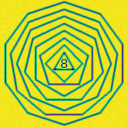
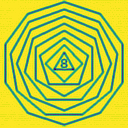
Trabalho04 - Restauração de Imagens (conluido)

diff --git a/Graduação/ProcImage/Trabalho04/main.py b/Graduação/ProcImage/Trabalho04/main.py
@@ -7,130 +7,163 @@ import matplotlib.pyplot as plt
 import numpy as np
 import sys
 
-def filter_adapt(img_deg):
+#Filtro Adaptativo de Remocação de Ruido
+#Paramteros: imagem degradada, fator limitante gama. coordenadas de um sub-regiao da imagem
+#tamanho do filtro e mode = {average, robust}
+def filter_adapt(img_deg, gama):
     #paramteros do filtro
-    gama = float(input())
     i1,i2,j1,j2 =  map(int, input().split())
     tam_filt = int(input())
-    mode = input()
-
-    img_deg_pad = np.pad(img_deg, ((k,k), (k,k)), 'symmetric')
-    h,w = img_deg_pad.shape
-    k = tam_filt//2 
-    reg_disp = img_deg_pad[i1+k:i2+k, j1+k:j2+k].flatten()
+    mode = sys.stdin.readline().strip()
     
+    k = tam_filt//2
+    img_deg_pad = np.pad(img_deg, ((k,k), (k,k)), 'symmetric') #app do padding 
+    h,w = img_deg_pad.shape
+    
+    #selecionando a sub-região da imagem
+    reg_disp = img_deg_pad[i1+k:i2+k, j1+k:j2+k].flatten()
+
+    #calculo da dispersao de ruido estimada através do desvio padrão da sub-regiao
     dispN = np.std(reg_disp)
     if dispN == 0 :
         dispN =1
     
+    
     F = np.zeros_like(img_deg_pad)
     vizin  = []
+    #Modo = Average
+    #Utiliza a media aritmetica como medida de  dispersao local e o desvio padrao da vizinhaça nxn como medida de centralidade local
     if mode == "average":
         for i in range(k, h-k):
             for j in range(k, w-k):
-                #print(k, i-k,j-k, i+k,j+k)
+                
                 vizin = img_deg_pad[i-k:i+k+1, j-k:j+k+1]
                 dispL = np.std(vizin) 
                 if dispL == 0:
                     dispL =  dispN
                 centL = np.mean(vizin)
-                F[i,j] = (img_deg_pad[i,j] - gama * dispN/dispL * (img_deg_pad[i,j] - centL))
-
+                F[i,j] = (img_deg_pad[i,j] - gama * dispN/dispL * (img_deg_pad[i,j] - centL)) #calculo  e aplicacao do filtro
+    #Modo = Average
+    #Utiliza a mediana como medida de  centralidade local e o intervalo quartil da vizinhaça nxn como medida de dispersao local
     elif mode == "robust":
          for i in range(k, h-k):
             for j in range(k, w-k):
                 vizin = img_deg_pad[i-k:i+k+1, j-k:j+k+1]
-
                 centL = np.median(vizin)
                 Q1 = np.percentile(vizin, 25)
                 Q3 = np.percentile(vizin, 75)
                 dispL = Q3 - Q1 
                 if dispL == 0:
                     dispL = dispN
-                
-                F[i,j] = img_deg_pad[i,j] - gama * dispN/dispL * (img_deg_pad[i,j] - centL)
+                F[i,j] = (img_deg_pad[i,j] - gama * dispN/dispL * (img_deg_pad[i,j] - centL)) #calculo e aplicação do filtro
         
     else:
         print("Valor incorreto!")
         return 0
     
+    #retirando o padding da imagem
     F = F[k:h-k, k:w-k]
 
     return F
-
+#Filtro de ruído 
 def gaussian_filter(k=3, sigma=1.0):
-    arx = np.aragne((-k//2) + 1.0, (k//2) + 1.0)
+    arx = np.arange((-k//2) + 1.0, (k//2) + 1.0)
     x,y = np.meshgrid(arx, arx)
-    filt  =np.exp(-(1/2) * np.square(x) + np.square(y) / np.square(sigma))
+    filt = np.exp(-(1/2) * (np.square(x) + np.square(y)) / np.square(sigma))
 
-    return filt/np.sum(filt)
+    return np.array(filt/np.sum(filt))
 
-#def min_quad_rest(img_deg, img_H):
+#Filtro Laplaciano
+def operador_laplaciano():
+    return np.array([[0,-1,  0],
+                     [-1, 4, -1],
+                     [0, -1, 0]])
+#Filtro de Minimos Quadrados Restritos
+def filter_min_quad_rest(sigma, tam_f, img_deg, gama):
+    #criando os filtros de degradação(gaussiano) e limitante(laplace)
+    laplace = operador_laplaciano()
+    filt_deg = gaussian_filter(k = tam_f, sigma=sigma) 
+    
+    #realizando o padding nos filtros
+    a = int(img_deg.shape[0] // 2 - filt_deg.shape[0] // 2)
+    c = int(img_deg.shape[0] // 2 - laplace.shape[0] // 2)
+
+    filt_h_pad = np.pad(filt_deg, ((a, a - 1), (a, a - 1)), 'constant', constant_values=(0))
+    laplace_pad = np.pad(laplace, ((c, c - 1), (c, c - 1)), 'constant', constant_values=(0))
+    
+    #aplicando a tf na imagem e filtros
+    img_deg_ft = np.fft.fft2(img_deg)
+    filt_h = np.fft.fft2(filt_h_pad)
+    filt_h_conj = np.conjugate(filt_h)
+    op_laplace = np.fft.fft2(laplace_pad)
+
+    #realizando a filtragem do dominio da frequencia ( produto na frequencia)
+    result = (filt_h_conj / (np.abs(filt_h) ** 2 + gama *( np.abs(op_laplace) ** 2))) * img_deg_ft
+
+    #aplicando a tf inversa e voltando pro dominio real
+    img_result = np.fft.ifft2(result)
+    img_result = np.fft.ifftshift(img_result)
+    img_result = np.real(img_result)
+
+    return img_result
 
 def app_filter(img_g):
-    param =  int(input())
-    if param == 1: #aplica o remoção por filtros adaptativos
-        img_filt= filter_adapt(img_g)
+    #Parametros-> Id: identificador do tipo de filtro e  fator gama
+    id =  int(input())
+    gama = float(input())
+    if id == 1: #aplica o remoção por filtros adaptativos
+        img_filt= filter_adapt(img_g, gama)
+
+    elif id == 2: #aplica o filtro de minimos quadrados restirtos para restauração das imagens
+        tam_f = int(input())
+        sigm =  float(input())
+        img_filt = filter_min_quad_rest(sigm, tam_f, img_g, gama)
     return img_filt
-def normalizacao(img):
-    img = (img - img.min())*255/(img.max() - img.min())
-    return img.astype(np.uint8)
+
 #Computa a diferença entre duas imagens
-def comp_ref(img, name_h):
-    H = iio.imread(name_h)
+def comp_ref(img, H):
     rse = np.sqrt(np.mean(np.power(img.astype(np.int32) - H.astype(np.int32), 2)))
     print("{:.4f}".format(rse))
 
+#Aplicando a liminacia para deixar a imagem colorida em tons de cinza
 def luminance ( l ) :
     if len( l.shape ) > 2:
        l = 0.2126*l[:,:,0] + 0.7152 * l[:,:,1] + 0.0722 * l[:,:,2]
        l = l.astype(np.uint8) 
     return l
+
+def visualiza_img(img, titulo):
+    plt.imshow(img, cmap="gray")
+    plt.title(titulo)
+    plt.show()
+
 def main():
+    #nome dos arquivos que serão utilizados
     name_f = sys.stdin.readline().strip()
     name_in = sys.stdin.readline().strip()
     
-    
-    #definindo img
+    #Criando os objs de imagens e aplicando a luminancia para imagens coloridas
     img_deg = iio.imread(name_in)
     if len( img_deg.shape ) > 2:
         img_deg = luminance(img_deg)
     img_h =  iio.imread(name_f)
     
-    plt.imshow(img_deg, cmap="gray")
-    plt.title("Imagem original")
-    plt.show()
+    #aplicando os filtros 
     img_filter = app_filter(img_deg)
-    plt.imsave("imgout.png", img_filter)
-    #img_filter = normalizacao(img_filter)
-    plt.imshow(img_filter, cmap="gray")
-    plt.title("Imagem original")
-    plt.show()
-    comp_ref(img_filter, name_f)
+    #clippando as imagens pois pode ocorrer valores que ultrapassem os limites [0,55]
+    img_filter_clip = np.clip(img_filter, 0, 255)
+
+    #computando as diferenças entre as imagens filtradas e as imagens "perfeitas"
+    comp_ref(img_filter_clip, img_h)
+
+    #salvando o resultado obtido com a filtragem de ruido
+    plt.imsave("imgout.png", img_filter_clip)
     
-    '''
-    plt.imshow(img_in, cmap="gray")
-    plt.title("Imagem original")
-    plt.show()
+    #visualizando os resultados
+    visualiza_img(img_deg, "Imagem degrada por ruídos")
+    visualiza_img(img_filter, "Imagem Filtrada")
+    visualiza_img(img_filter_clip, "Imagem com limites definidos")
 
-    plt.figure(figsize=(10,5))
-
-    # Imagem original (esquerda)
-    plt.subplot(1, 2, 1)  # 1 linha, 2 colunas, posição 1
-    plt.imshow(img_h, cmap="gray")
-    plt.title("Imagem Original")
-    plt.axis('off')
-
-    # Imagem filtrada (direita)
-    plt.subplot(1, 2, 2)  # 1 linha, 2 colunas, posição 2
-    plt.imshow(img_filter, cmap="gray")
-    plt.title("Imagem Filtrada")
-    plt.axis('off')
-
-    plt.tight_layout()  # evita sobreposição de títulos
-    plt.show()
-    
-    '''
     return 0
 
 if __name__ == "__main__":

diff --git a/Graduação/ProcImage/Trabalho04/teste.py b/Graduação/ProcImage/Trabalho04/teste.py
@@ -1,0 +1,84 @@
+import numpy as np
+from scipy.ndimage import gaussian_filter
+import matplotlib.pyplot as plt  # For visualization (optional)
+
+def operador_laplaciano():
+    """Retorna um operador Laplaciano simples 3x3."""
+    return np.array([[0, -1, 0],
+                     [-1, 4, -1],
+                     [0, -1, 0]])
+
+def filter_min_quad_rest(sigma, tam_f, img_deg, gama):
+    """
+    Aplica o filtro de mínimos quadrados restritos para restaurar uma imagem degradada.
+
+    Args:
+        sigma (float): Desvio padrão do filtro gaussiano.
+        tam_f (int): Tamanho do filtro gaussiano (neste caso, do kernel).
+        img_deg (np.ndarray): Imagem degradada.
+        gama (float): Parâmetro de regularização.
+
+    Returns:
+        np.ndarray: Imagem restaurada.
+    """
+
+    # 1. Gerar os filtros
+    laplace = operador_laplaciano()
+    #filt_deg = gaussian_filter(img_deg, sigma=sigma) # gaussian_filter already applies the filter
+    filt_deg = np.ones((tam_f, tam_f)) # Create a simple kernel for demonstration
+
+    # 2. Calcular o padding
+    a = img_deg.shape[0] // 2 - filt_deg.shape[0] // 2
+    c = img_deg.shape[0] // 2 - laplace.shape[0] // 2
+
+    # 3. Aplicar o padding (ANTES da FFT)
+    filt_h_pad = np.pad(filt_deg, ((a, a - 1), (a, a - 1)), 'constant', constant_values=(0))
+    laplace_pad = np.pad(laplace, ((c, c - 1), (c, c - 1)), 'constant', constant_values=(0))
+
+    # 4. Aplicar a Transformada de Fourier (FFT)
+    img_deg_ft = np.fft.fft2(img_deg)
+    filt_h = np.fft.fft2(filt_h_pad)
+    filt_h_conj = np.conjugate(filt_h)
+    op_laplace = np.fft.fft2(laplace_pad)
+
+    # Visualização dos filtros (opcional)
+    # plt.imshow(np.log(np.abs(filt_h) + 1e-8), cmap='gray')
+    # plt.title("Filtro Gaussiano (padded) no domínio da frequência")
+    # plt.show()
+    # plt.imshow(np.log(np.abs(op_laplace) + 1e-8), cmap='gray')
+    # plt.title("Filtro Laplaciano (padded) no domínio da frequência")
+    # plt.show()
+
+    # 5. Realizar a filtragem no domínio da frequência
+    result = (filt_h_conj / (np.abs(filt_h) ** 2 + gama * np.abs(op_laplace) ** 2 + 1e-8)) * img_deg_ft
+
+    # 6. Aplicar a Transformada Inversa de Fourier (IFFT)
+    img_result = np.fft.ifft2(result)
+    img_result = np.real(img_result)
+
+    return img_result
+
+
+if __name__ == '__main__':
+    # Criar uma imagem de exemplo (256x256)
+    img_exemplo = np.zeros((256, 256))
+    img_exemplo[100:150, 100:150] = 255  # Quadrado branco no centro
+    img_exemplo = gaussian_filter(img_exemplo, sigma=5) # Blur the image
+
+    # Parâmetros de exemplo
+    sigma = 1.0
+    tam_f = 5
+    gama = 0.01
+
+    # Aplicar o filtro
+    img_restaurada = filter_min_quad_rest(sigma, tam_f, img_exemplo.copy(), gama)
+
+    # Visualizar os resultados
+    plt.figure(figsize=(10, 5))
+    plt.subplot(1, 2, 1)
+    plt.imshow(img_exemplo, cmap='gray')
+    plt.title('Imagem Degradada')
+    plt.subplot(1, 2, 2)
+    plt.imshow(img_restaurada, cmap='gray')
+    plt.title('Imagem Restaurada')
+    plt.show()
